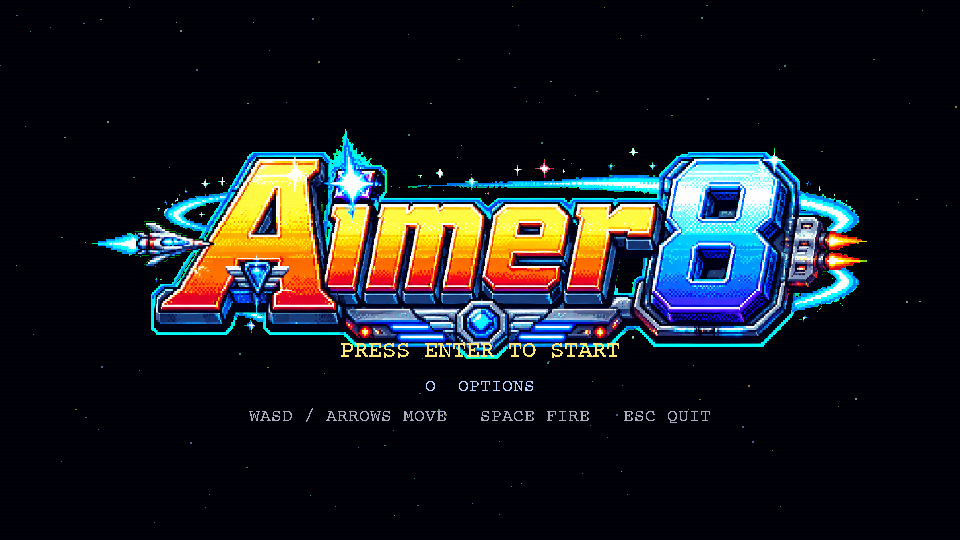
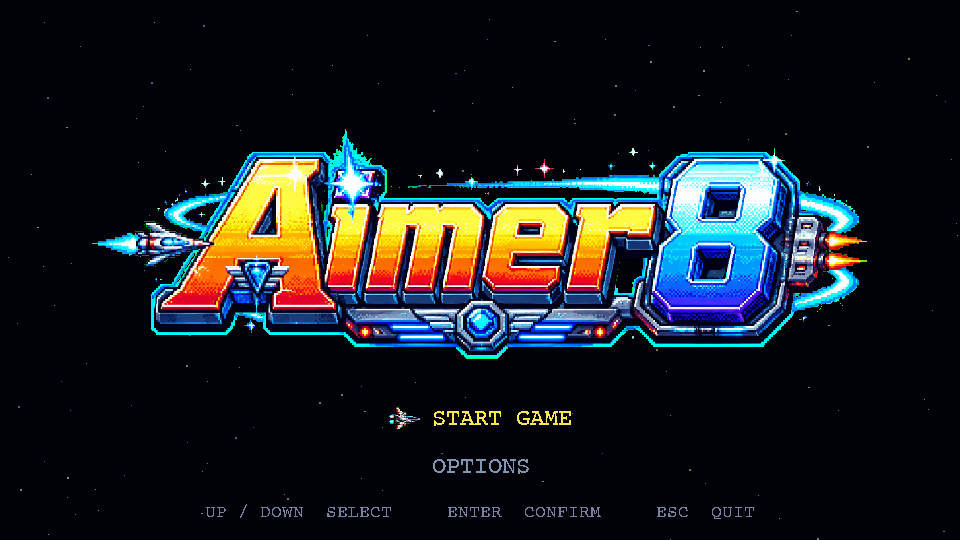
Rework main menu and fix ESC-during-gameplay
- Main menu now shows "Start Game" / "Options" as a vertical list;
  ship sprite acts as cursor, UP/DOWN to navigate, ENTER to confirm.
  Items are left-edge-aligned with the widest label, whole block
  centered on screen. Menu is pinned below the logo (target_y +
  logo_height + gap) so it never overlaps regardless of logo size.
  Controls hint is anchored to HEIGHT - 28 so it never clips the edge.
- ESC while playing now returns to the main menu instead of quitting.

diff --git a/main.py b/main.py
@@ -606,6 +606,7 @@ class Game:
         # Persistent across resets
         self.diff_cursor = 1       # index into DIFF_OPTIONS; 1 = "normal"
         self.options_cursor = 0    # 0 = music slider, 1 = sfx slider
+        self.menu_cursor = 0       # 0 = Start Game, 1 = Options
         self.reset(to_menu=True)
 
     def reset(self, to_menu=False, lives=None):
@@ -858,17 +859,37 @@ class Game:
             title = title_font.render(GAME_NAME, False, (120, 255, 180))
             surf.blit(title, title.get_rect(center=(WIDTH // 2, logo_y + 80)))
 
-        start = font.render("PRESS ENTER TO START", False, (255, 230, 120))
-        options_hint = small.render("O  OPTIONS", False, (180, 210, 255))
-        controls = small.render("WASD / ARROWS MOVE   SPACE FIRE   ESC QUIT", False, (170, 170, 190))
+        menu_items = ["START GAME", "OPTIONS"]
+        item_gap = 48
+        ship_icon = pygame.transform.scale(ASSETS["player"], (32, 22))
+        icon_gap = 12  # space between ship icon and text
 
-        show_start = (pygame.time.get_ticks() // 500) % 2 == 0
+        # Pre-render labels to measure widths
+        rendered = [font.render(label, False, (255, 255, 255)) for label in menu_items]
+        max_txt_w = max(r.get_width() for r in rendered)
 
-        if show_start:
-            surf.blit(start, start.get_rect(center=(WIDTH // 2, HEIGHT // 2 + 80)))
+        # Total block width = ship icon + gap + widest text; center the block
+        block_w = ship_icon.get_width() + icon_gap + max_txt_w
+        block_left = WIDTH // 2 - block_w // 2
+        text_left  = block_left + ship_icon.get_width() + icon_gap
 
-        surf.blit(options_hint, options_hint.get_rect(center=(WIDTH // 2, HEIGHT // 2 + 116)))
-        surf.blit(controls, controls.get_rect(center=(WIDTH // 2, HEIGHT // 2 + 146)))
+        # Place menu below the logo with a fixed gap, never overlapping it
+        logo_h = self.title_logo.get_height() if self.title_logo else 80
+        item_y_start = target_y + logo_h + 36
+
+        for i, (label, base_surf) in enumerate(zip(menu_items, rendered)):
+            item_y = item_y_start + i * item_gap
+            selected = (i == self.menu_cursor)
+            color = (255, 230, 80) if selected else (130, 150, 180)
+            txt = font.render(label, False, color)
+            surf.blit(txt, (text_left, item_y - txt.get_height() // 2))
+
+            if selected:
+                sy = item_y - ship_icon.get_height() // 2
+                surf.blit(ship_icon, (block_left, sy))
+
+        controls = small.render("UP / DOWN  SELECT     ENTER  CONFIRM     ESC  QUIT", False, (120, 130, 160))
+        surf.blit(controls, controls.get_rect(center=(WIDTH // 2, HEIGHT - 28)))
 
     def draw_difficulty(self, surf):
         overlay = pygame.Surface((WIDTH, HEIGHT), pygame.SRCALPHA)
@@ -1056,10 +1077,15 @@ def main():
                 if game.state == "menu":
                     if event.key == pygame.K_ESCAPE:
                         running = False
+                    elif event.key in (pygame.K_UP, pygame.K_w):
+                        game.menu_cursor = (game.menu_cursor - 1) % 2
+                    elif event.key in (pygame.K_DOWN, pygame.K_s):
+                        game.menu_cursor = (game.menu_cursor + 1) % 2
                     elif event.key in (pygame.K_RETURN, pygame.K_KP_ENTER):
-                        game.state = "difficulty"
-                    elif event.key == pygame.K_o:
-                        game.state = "options"
+                        if game.menu_cursor == 0:
+                            game.state = "difficulty"
+                        else:
+                            game.state = "options"
 
                 elif game.state == "difficulty":
                     if event.key == pygame.K_ESCAPE:
@@ -1101,7 +1127,7 @@ def main():
 
                 elif game.state == "playing":
                     if event.key == pygame.K_ESCAPE:
-                        running = False
+                        game.reset(to_menu=True)
                     elif event.key == pygame.K_SPACE:
                         game.fire()
 